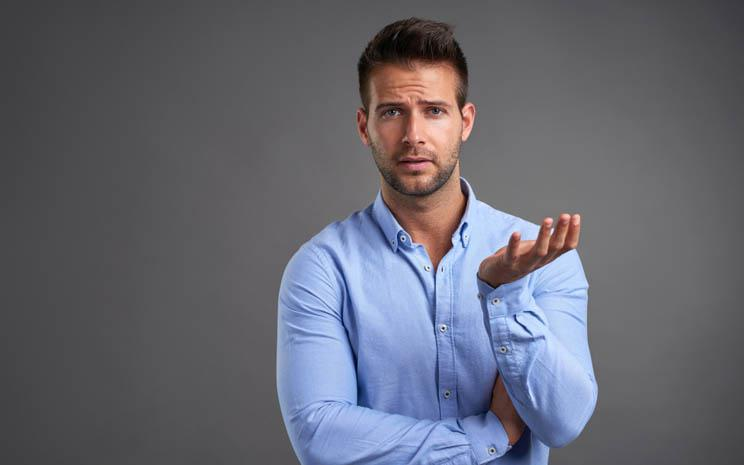
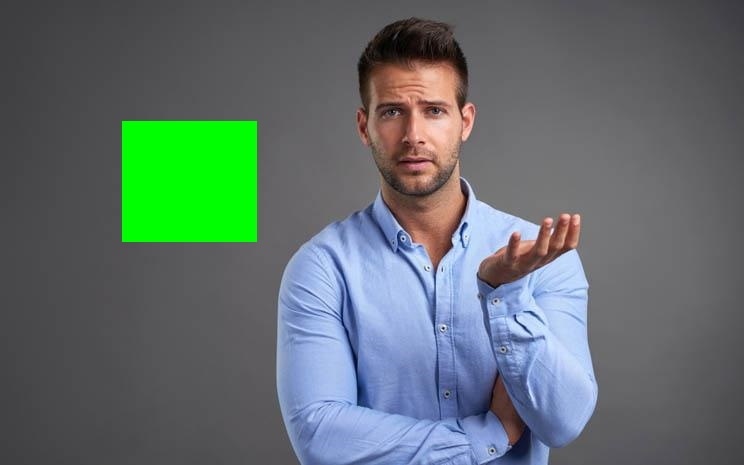
made some progress

Changed region(s): [[0.1546, 0.2409, 0.371, 0.5419]]

diff --git a/main.py b/main.py
@@ -1,13 +1,39 @@
-import cv2 as cv
+import numpy as np
+import cv2  as cv
 
-capture = cv.VideoCapture("videos/video.mp4")
+cap = cv.VideoCapture(0)
+
+lowerHue = 0
+upperHue = 0
+
+def nothing(v):
+    pass
+
+cv.namedWindow("controls")
+cv.createTrackbar("lower_hue", "controls", 0, 255, nothing)
+cv.createTrackbar("upper_hue", "controls", 0, 255, nothing)
 
 while True:
-    success, img = capture.read()
-    cv.imshow("video", img)
+    _, frame = cap.read()
+    # Convert BGR to HSV
+    hsv = cv.cvtColor(frame, cv.COLOR_BGR2HSV)
+    # define range of blue color in HSV
+    lower_blue = np.array([cv.getTrackbarPos("lower_hue", "controls"),50,50])
+    upper_blue = np.array([cv.getTrackbarPos("upper_hue", "controls"),255,255])
+    # Threshold the HSV image to get only blue colors
+    mask = cv.inRange(hsv, lower_blue, upper_blue)
+    bluecnts = cv.findContours(mask.copy(), cv.RETR_EXTERNAL, cv.CHAIN_APPROX_SIMPLE)[-2]
 
-    if cv.waitKey(24) == ord('q'):
+    if len(bluecnts)>0:
+        blue_area = max(bluecnts, key=cv.contourArea)
+        (xg,yg,wg,hg) = cv.boundingRect(blue_area)
+        cv.rectangle(frame,(xg,yg),(xg+wg, yg+hg),(0,255,0),2)
+
+    cv.imshow('frame',frame)
+    cv.imshow('mask',mask)
+
+    if cv.waitKey(5) == 27:
         break
 
-capture.release()
+cap.release()
 cv.destroyAllWindows()
